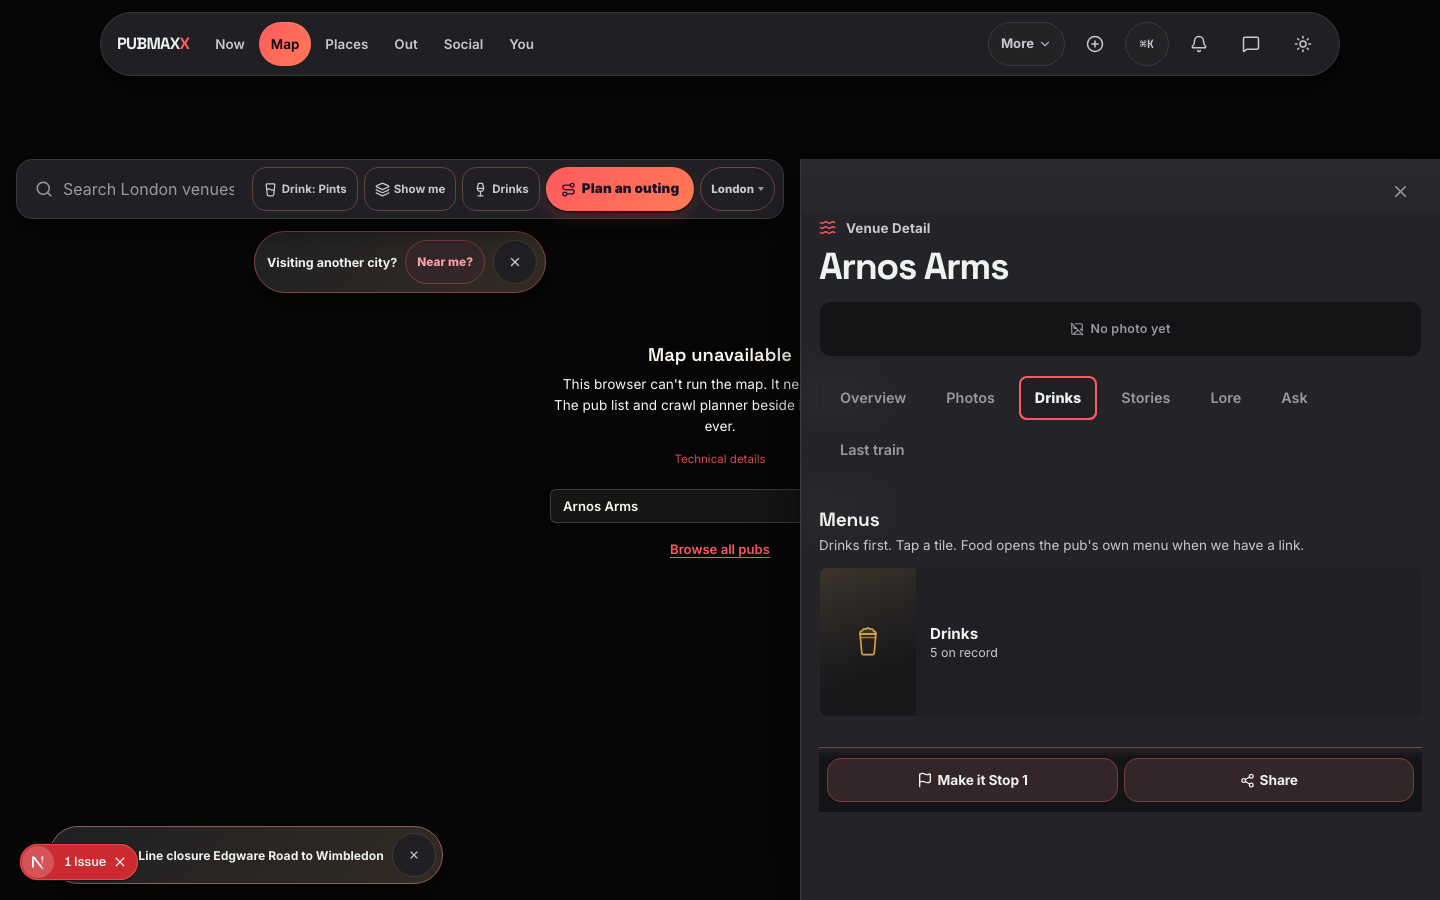
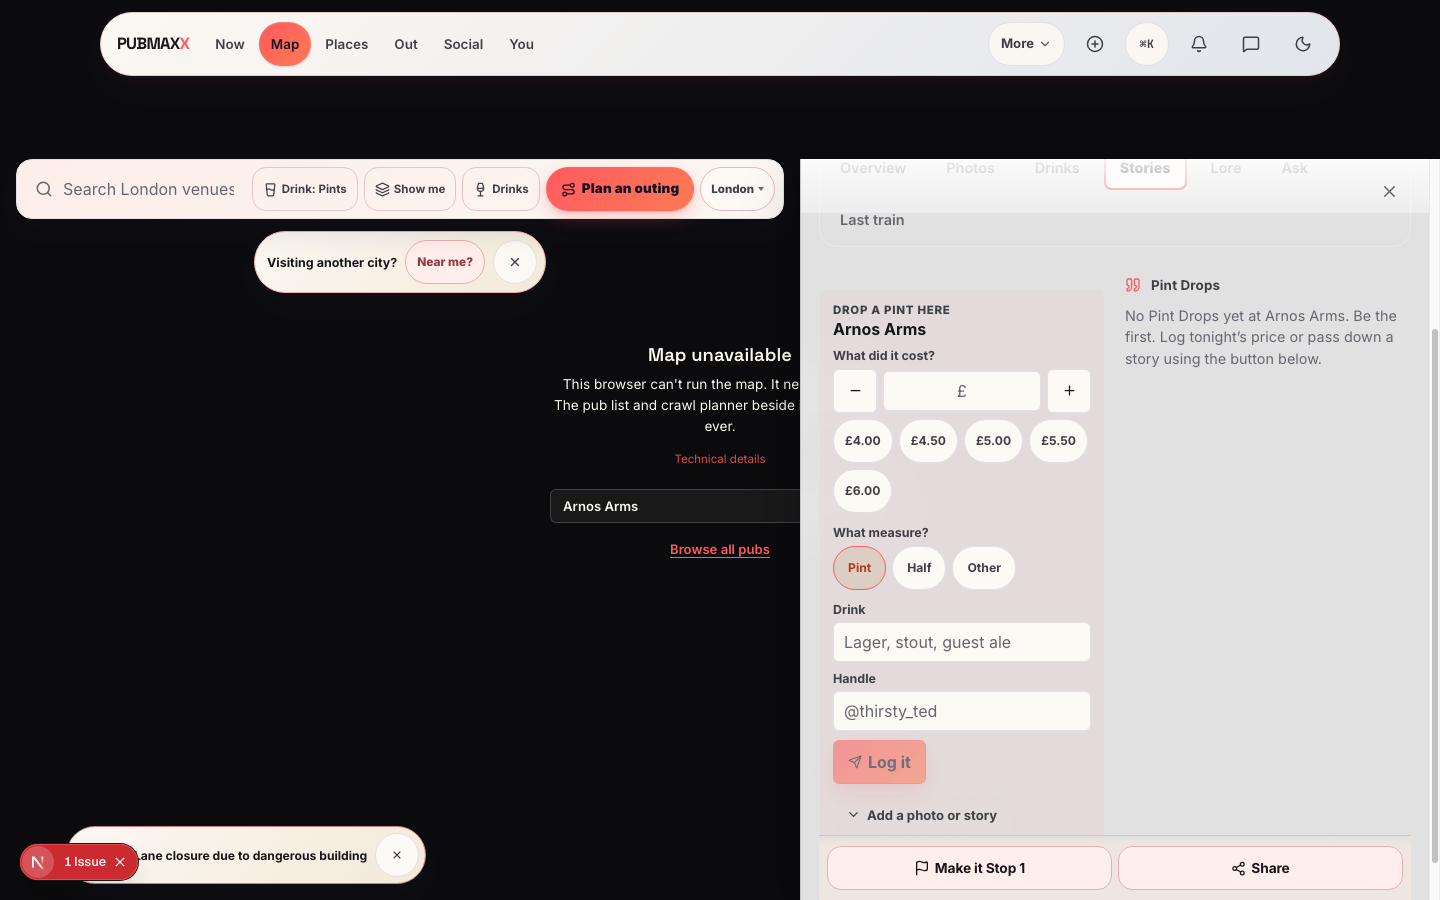
docs(price): the measure law, the retired confirm lane, and the composer proof
AGENTS.md gains the two laws the five fixes below it establish: a price is
about a MEASURE and a half is held out of the pint lane rather than scaled into
it, and a confirmation vocabulary is owned, so the anonymous IP-keyed one is
retired while the caller-aware, lane-aware and duplicate-safe readings beside
it are named.

docs/proof/half-pint-integrity/ holds the composer before and after at 390x844,
768x1024 and 1440x900, and its README records how each shot was verified in the
pass that captured it. Two traps are written down there for the next reader,
because both produced a screenshot that looked like a missing feature and was
not: the tab labelled "Drinks" opens the drink MENU rather than the Pint Drop
panel, and a composer opened while its tabpanel is still `hidden` sits in the
DOM with a zero box and paints nothing.

diff --git a/AGENTS.md b/AGENTS.md
@@ -54,6 +54,8 @@ PubMaxing is a single Next.js 16 (App Router, React 19, TypeScript) web app, a p
 - **THE TRUST STORY READS ONE WAY, AND `lib/pintTrust.ts` IS THE ONE READING.** Captain's cut for v0 (5 Sept 2026, Fable51Fix section 1): first public drop is logged-once, a second independent drinker is the trusted MARK and may lead the cheapest-pint story, and "No price yet" over a visible public drop may never return. `pintTrustFor` composes the four drop lanes in `lib/venues.ts` in order (`confirmedPriceDrop`, `corroboratedPriceDrop`, `provisionalPriceDrop`, `agedPriceDrop`) into FIVE states (`confirmed`, `corroborated`, `logged-once`, `aged-out`, `none`), every one a READING at `now`: an expired confirmation reads `aged-out` and nothing is written. `pintTrustSignalFields` is the ONE projection into `VenueSignal` (`components/map/usePintDrops.ts` calls no drop lane of its own), `PINT_TRUST_PIN_PAINT` says what each state paints (authority: band and figure; mark: the provisional badge; none: nothing) and `PINT_TRUST_LINE` what it prints. THREE rules. (1) COLOUR ON A PIN IS THE PRICE BAND ALONE (captain's law 5 Sept 2026: red dear, yellow average, green cheap, relative to the area; the thresholds and the shared colour module belong to the price-colour-law worker), so a trust state is a badge SHAPE: `components/map/canvas/geojson.ts` stamps `standing: "confirmed"` off the signal through `pintTrustPinStanding`, and `pubs-confirmed-badge` in `components/map/canvas/buildScene.ts` draws the provisional dot's berth HOLLOW over it. A filled dot is one report; a ring is a confirmed pair. Nothing derives a colour from a trust state. (2) An AGED drop is still a visible public drop, so it is the `aged` lane in `lib/venuePriceLane.ts`, below the baseline and above the model, printing `AGED_PRICE_LINE`; only a `null` lane may word an absence, as before. (3) THE CHIP IS THE SEAM: every drop-lane row on the Overview and the phone peek carries `data-pint-trust` and `data-venue-id` (`trustChipStateFor`), and the second-drinker confirm action mounts against that element, so the read PR and the write PR merge in either order. Pins: `__tests__/pintTrust.test.ts`, `__tests__/lonePintDropLane.test.ts`, `e2e/trust-read.spec.ts`; proof `docs/proof/trust-read/`.
 - **THE OVERVIEW HAS ONE PRICE DOOR PER TRUST STATE, AND THE COMPOSER IS FOLDED BEHIND IT.** Captain's rule (core-loop battle test L03, 5 Sept 2026): one button system, one clear primary per screen. A pub Overview offered four to eight price actions on one sheet, because every block that touched a price grew its own invitation. `overviewPriceDoor` in `lib/pintTrust.ts` is the whole policy, a closed table over the five trust states: `logged-once` and `aged-out` get the confirm door from #1492 (`Still £4.50?`, seeding the Pint Drop composer), every other state and every non-drop lane gets the one log door (`LOG_PRICE_DOOR_LABEL`), and an anchor lane gets none. FOUR rules. (1) The door is decided ONCE in `VenuePriceSummary` (`components/map/inspector/VenueOverviewTab.tsx`) and appended to whichever lane block renders; no lane, nudge or block may carry a door of its own, and `FirstDropNudge` takes the door as children. (2) The community price composer (`VenuePriceEntryPanel`, `open` prop) mounts its form only when `overviewComposerOpen` says so: the sheet answered the door with a focus request, with the sign-in gate, or a ranked mission arrived for this pub (the mission IS the ask). The door folds away while the form is open, so the two never stand on one screen; the panel's effects still run folded, so the venue read and `price_submit_viewed` are unchanged. (3) The prices-by-drink invite folds wherever the price area owns the door (`drinkInviteOwnedByPriceArea`); under a drink lens the area is hidden and the block keeps the lane's door. (4) The sticky bar carries NO price action and NO painted primary: `Add price` is gone, and `Make it Stop 1` is a ghost because the phone peek's `Plan stop` is the one painted plan action. The door is the `priceDoor` class (`app/globals.css`), the same flat action accent every launch primary wears, never a price band. `UnverifiedPubSheet` keeps `VenueSheetPriceEntry` open by default and is untouched. Pins: `__tests__/overviewPriceDoor.test.ts` (policy per state, one rendered door, the fold, a source sweep for the retired doors), `e2e/overview-price-door.spec.ts` (390, signed in, five states); proof `docs/proof/overview-price-door/`.
 - **A LOGGED-ONCE PINT OFFERS A SECOND DRINKER ONE DOOR, AND THE WRITE PATH SAYS WHAT THEIR REPORT DID.** Captain's cut for v0 (Fable51Fix section 1, 2026-09-05). The two drop-lane rows that lack a second drinker on the venue Overview (`logged-once` and `aged-out`, read off `trustChipStateFor` in `lib/pintTrust.ts` and never off a lane branch: `SECOND_DRINKER_STATES` is the closed set) carry ONE action, `Still £4.50?`, worded over the lane's own observed figure, which opens the pub's Pint Drop composer with the figure already in the price field through the SAME seed the log intent's `price=` rides (`priceSeed` into `useVenueDraft`, so a saved draft still wins and nothing submits). `lib/pintDropSecondDrinker.ts` is the browser-safe leaf owning the door's words, the seed and the CLOSED outcome vocabulary (`confirmed`, `already_confirmed`, `same_reporter`, `awaiting_second_drinker`, `unavailable`). FOUR rules. (1) The open goes through PubMap's `openComposerForLog` (`onOpenComposerForLog` on `VenueInspector`), because that is the ONE caller of the price-step reveal. (2) Soft-gated by the composer itself: signed out, the fields stay open and the sign-in link where Log it would be carries `pintDropDoorHref(venueId, price)` back, so the account's first kept action lands on this composer with the figure. (3) Independence is decided on the server and nowhere else: `readSecondReporter` (`lib/pintDropConfirmation.ts`) is `findSecondReporterConfirmation` plus the honest name for each null, `runSecondReporterPass` (`lib/pintDropConfirm.server.ts`) mints once and answers the confirmation ON FILE to a retry, and a same-account repeat answers `same_reporter` with nothing written, because an unattributed row is no reporter and one key twice is one report. Both `POST /api/pint-drops` and `POST /api/price-submit` carry `confirmationOutcome`; the composer's receipt prints its line and re-reads the lane on a mint, since the earlier row this browser holds predates it. (4) The e2e answers the write with a boundary double in the route tests' shape, because the keyless e2e server verifies no bearer and mints nothing; independence is pinned at the route. Pins: `__tests__/pintDropSecondDrinker.test.ts`, `__tests__/pintDrops.test.ts`, `__tests__/priceSubmitRoute.test.ts`, `__tests__/lonePintDropLane.test.ts`, `e2e/second-drinker-confirm.spec.ts`.
+- **A PRICE IS ABOUT A MEASURE, AND A HALF IS HELD OUT RATHER THAN SCALED IN.** Contribution battle test D04: a Pint Drop of `drink: "Half of lager", priceGbp: 2.6` was accepted into the pint lane, a second drinker confirmed it as "£2.60 a pint", and that figure fed pin colour, the cheapest-pint buckets and the Pint Index at a pub whose pint is £5.50. The drink text was the only place a half could be said, the composer's own placeholder invited the word, and no read path ever asked it. `lib/drinkMeasure.ts` is the ONE owner of the closed set (`pint` | `half` | `other` with a free label), the default, the words, and the word-bounded table of measure terms a drink text may name; it is a pure leaf so a bundle needing the word "Half" pulls no venue index behind it. FIVE rules. (1) NOTHING IS EVER SCALED: a half of lager is not half the price of a pint of it, so doubling a figure would publish a price nobody paid; a non-pint row keeps its own figure, stays dated on the pub's own drop list with its measure printed beside it, and is held OUT. (2) ONE PREDICATE GUARDS EVERY LANE: `measureIsPint` reads an absent measure as `pint`, so no row written before migration 0147 changes lane, and `isPintPricedDrop` in `lib/venues.ts` is asked first by all four drop lanes, which is what carries it into `authoritativePriceDrop`, `mergeVenueDrops`, `provisionalPintDropVenueIds`, `pintTrustFor`, `confirmedPriceInputFor` and `findSecondReporterConfirmation` - so a half can neither be confirmed nor be the peer that confirms a pint. (3) THE MEASURE IS ASKED BEFORE THE FREE TEXT, and a priced drop claiming `pint` whose own words say half is refused with `MEASURE_ASK_LINE`; a passed-down memory about 40p halves is a story, not a price lane. (4) The Index counts a pre-0147 confirmed half out by name (`measure_not_pint`), and the measure survives a saved draft and rides the paired one-tap drop explicitly. (5) The COMMUNITY PRICE lane is deliberately measure-free: its composer carries a closed category and no drink text, so its beer chip means a pint and `lib/oneTapPintDrop.server.ts` states `measure: "pint"` on the row rather than inheriting it. Migration `0147` + rollback adds the column with two CHECKs; its backfill FLAGS by drink text and writes the measure column alone, so a flagged row keeps its price, its date, its author and its confirmation id. Pins: `__tests__/drinkMeasure.test.ts`, `__tests__/pintDropMeasureMigrationEffective.test.ts` (real PostgreSQL 16); proof `docs/proof/half-pint-integrity/`.
+- **A CONFIRMATION VOCABULARY IS OWNED, AND THE ANONYMOUS ONE IS RETIRED.** Battle test L03: `POST /api/price-confirm` took a body with no bearer, counted it by hashed IP, and printed "Confirmed - 1 confirm." beside a price the trust chip called logged-once. Retired whole (the route, its store, the chip, the tally read, the confirm-derived confidence words, and its `community` publisher in `lib/priceFactClaims.ts` which used to upgrade a lone scraped baseline to `corroborated`), because an IP is a household, a pub's own wifi and a mobile carrier's NAT and cannot say how many PEOPLE stood behind a price. `price_confirms` (migration 0025) is LEFT IN PLACE and simply unread: retiring a reading is not deleting what people did. The interaction survives where it can be trusted, as `Still £4.50?` and `It's changed`, both landing a dated Pint Drop from an account with an authority key. TWO more readings were made caller-aware or lane-aware in the same sweep: the mission receipt words a BEER write from `pintTrustFor` alone and claims nothing when that read fails (D07), and `same_reporter` is a sentence about the CALLER, so `readSecondReporter` takes the caller's key and a different drinker is never told they repeated themselves (D08). A duplicate tap is one price: the composer latches on a ref claimed before the first await and `writeOneTapPintDrop` is idempotent over `ONE_TAP_DUPLICATE_WINDOW_MS`, which is deliberately NOT the daily cap the pairing lane opts out of (D10). Pins: `__tests__/priceConfirmRetired.test.ts`, `__tests__/priceEvidenceMissions.test.ts`, `__tests__/pintDropSecondDrinker.test.ts`, `__tests__/oneTapDuplicateTap.test.ts`.
 - **ONE DRINKER'S REPORT IS A PRICE, and it shows in its own lane rather than moving the map.** Captain decision 2026-09-04 (issue #1426), after production showed the venue Overview saying "No price yet" over a pub whose Drinks tab held a public £4.50. THE CORROBORATION GATE IS UNCHANGED: `COMMUNITY_PRICE_CORROBORATION_THRESHOLD` stands, and `corroboratedPriceDrop` still needs two in-window drops carrying two distinct authority keys. What it is no longer is the ONLY door onto pin colour, cheapest buckets, `mergeVenueDrops` and the Pint Index, because a server-minted confirmation is the same agreement written down where every key was visible: `authoritativePriceDrop` is that door and asks both, confirmation first, and the entry above owns the order and why. Beside them sits `provisionalPriceDrop` (`lib/venues.ts`), the freshest in-window organic priced drop, answering null the moment an authoritative figure exists so one pub can never offer two figures. It is deliberately NOT keyed on `authorityKey`, because that key proves INDEPENDENCE and a lone report claims none; the row this was found over has a null key, from the unlinked-handle write door. FOUR rules. (1) `lib/venuePriceLane.ts` is the ONE precedence and the ONE definition of "no price yet": `anchor`, `contributor`, `sourced`, `listed`, `provisional`, `baseline`, `estimate`, and a `null` answer is the only thing any surface may word as an absence. The provisional lane sits below the listed bundle row, which carries a page a reader can open, and above the baseline, whose stamp is hand-maintained. (2) The figure is rendered DIRECTLY with its date and `PROVISIONAL_PRICE_LINE`, never through `TrustPill`: `listed` in `lib/priceTier.ts` means a price the pub or its chain PUBLISHED, and a drinker's log is not that. (3) The report reaches the two provisional fields on `VenueSignal` (`components/map/canvas/types.ts`) and nothing else; `latestContributorPrice` stays corroborated-only, so no band, bucket or pin figure can read it, and the pin's existing provisional BADGE (`provisionalPintDropVenueIds`, now derived from `provisionalPriceDrop`) is still the whole of what a pin says about a pending report. `/api/venue/[id]` merges no drops at all and is untouched. (4) A SURFACE THAT WORDS AN ABSENCE ASKS THE LANE, and the first cut shipped two that did not (#1426 follow-up). The prices-by-drink block said "No beer price logged here yet" directly above the figure, because a Pint Drop is not a `community_prices` row: `venuePriceLaneIsDrinkerLog` is what silences that line, so a sourced, listed, baseline or modelled figure still earns it and only a drinker's own log takes it away, and `VenueOverviewTab` takes the lane ONCE and hands it to both blocks so one pub cannot be read two ways. The phone peek chip said "No price yet. Be the first" over the same pub, because it tested `cheapestPrice` itself: `peekPriceChip` (`lib/pubMap.ts`) is now the ONE thing that chip prints, `venuePriceLaneObservedGbp` says which field of a variant is its figure, and the estimate lane answers null there so a modelled price still reaches a screen only through `priceStandingFigure`. Pins: `__tests__/lonePintDropLane.test.ts`, `__tests__/venuePriceLane.test.ts`, `__tests__/venues.test.ts`, `__tests__/unverifiedPubSheet.test.ts`.
 - **The daily price cap has TWO enforcers, and it is a ROUTE's rule rather than the table's.** Pentest finding F-1: `hasPricedDropToday` followed by `create` is a check-then-insert with nothing underneath it, so a concurrent burst walked straight through the stated "one price per pub each day" rule (eight simultaneous priced POSTs, six rows, one authority key, so nothing corroborated and nothing moved). The pre-check STAYS and stays deliberately fail-open, because it gives the ordinary refusal without spending a failed insert; the hard guard behind it is `pint_drops_priced_day_unique_idx` (migration `0141` + rollback). THREE rules. (1) THE BUCKET IS A COLUMN, never an expression: `timezone(text, timestamptz)` is only STABLE so a London day cannot anchor an index, and a UTC day is the WRONG day in both directions under BST, so the writer stamps `price_day` with the same `londonDayKey()` the pre-check compares against and the two enforcers cannot read one day differently. The migration's backfill claims the EARLIEST row of each existing bucket, because the rows the finding is about are already in the table and a naive backfill would fail the index build. (2) THE CAP GOVERNS THE LANE THAT STATES IT: `create` takes `underDailyPriceCap` (`PintDropCreateOptions`) and only `POST /api/pint-drops` opts in, because `POST /api/price-submit` pairs a Pint Drop with every community price a drinker sends and takes several from one account at one pub in one day on purpose, with its own rate limiter as the brake. A guard over every row would refuse the second of those. Whether the pairing lane should share the cap is an open product question, not a bug. (3) ONE SENTENCE: `DAILY_PRICE_CAP_REFUSAL` is spent by the pre-check and by the `PintDropDailyCapError` the store throws, so a drinker cannot tell which enforcer turned them away, and that refusal logs as `pint_drops.daily_cap_conflict` rather than as an outage. Pins: `__tests__/pintDropDailyCapAtomicEffective.test.ts` (real PostgreSQL 16, eight writers released at one instant, before and after the migration), `__tests__/pintDropDailyDedupe.test.ts`, `__tests__/pintDrops.test.ts`.
 - **The Pint Index PUBLISHES what drinkers confirmed, and the producer is a script.** `lib/pintIndexFromConfirmations.ts` builds the live snapshot from confirmed Pint Drops and `npm run build:pint-index-snapshot` writes `public/data/pint_index_snapshot.json`, which was hand-written and empty because nothing produced it. `lib/pintIndex.ts` admission is UNCHANGED and is the gate: the script validates and dies rather than write a snapshot the site would refuse. FOUR rules. (1) Only a LIVE confirmation may be cited, through the same `confirmationIsLive` the venue sheet reads, so the pubs the Index dates and the pubs a standing calls Confirmed are one set. (2) An observation is dated to the NIGHT THE PRICE WAS SEEN, never the day it was confirmed. (3) Every drop is counted somewhere: `PINT_INDEX_EXCLUSION_REASONS` gives an unresolvable pub, a point outside every borough and an unpriced row their own reason and count. (4) The script REFUSES rather than publish an empty Index over a real one: no durable store, a failed read, or a confirmed-drop read at `MAX_INDEX_CONFIRMED_DROPS` each stop it, and a read that answered with nothing is honestly `empty`. Missions point at the pubs the Index cannot date: the `undated` field on `VenueMissionRows` is a TIE-BREAK inside a reason and never a promotion over a stronger one, it reaches no DTO, and the route reads it in ONE `listConfirmedVenueIds` call for the whole page. Pins: `__tests__/pintIndexFromConfirmations.test.ts`, `__tests__/priceEvidenceMissions.test.ts`.

diff --git a/docs/proof/half-pint-integrity/README.md b/docs/proof/half-pint-integrity/README.md
@@ -1,0 +1,56 @@
+# Half-pint integrity: the measure field, before and after
+
+Contribution battle test D04. Six shots of the Pint Drop composer on the venue
+sheet at Arnos Arms (`venue-xjf3n0`), the pub the report found the defect over,
+at the three widths the captain's rule names.
+
+| Width | Before | After |
+|---|---|---|
+| 390x844 | `before-composer-390.png` | `after-composer-390.png` |
+| 768x1024 | `before-composer-768.png` | `after-composer-768.png` |
+| 1440x900 | `before-composer-1440.png` | `after-composer-1440.png` |
+
+## What changed on screen
+
+BEFORE, the composer asked two questions: what it cost, then a free `Drink`
+field whose own placeholder invited the answer that broke the lane, "Pint,
+half, soda, guest ale". Nothing downstream read that text, so "Half of lager"
+at £2.60 entered the pint lane, was confirmed by a second drinker as "£2.60 a
+pint", and fed pin colour, the cheapest-pint buckets and the Pint Index at a
+pub whose pint is £5.50.
+
+AFTER, a closed `What measure?` row sits between the price and the drink, on
+Pint by default. The drink placeholder is `Lager, stout, guest ale`, so it no
+longer invites a measure. A priced drop that claims the pint measure while its
+own words say half is refused with one line that hands the drinker the control:
+"Pick the measure first, so a half never reads as a pint."
+
+The measure chips share the price quick-adds' shape, because two chip rows in
+one composer are one control system. The selected chip's label takes
+`--brass-ink` rather than `--brass`: the accent as a WORD reads 2.9:1 on its own
+tint in light, and the ink token points back at `--brass` in dark so one coral
+survives the theme.
+
+## How these were taken
+
+Two `next dev` servers on isolated dist directories, one holding `origin/main`'s
+`ComposerPriceStep.tsx` and `spillComposer.css` (before) and one holding this
+branch's (after), driven over CDP against Chrome for Testing 151.
+
+Each shot is verified in the same pass that captures it: the run asserts the
+Pint Drop panel has unhidden, that the price step has a non-zero box on screen,
+and that the measure chips read `[Pint,Half,Other]` for an after shot and `[]`
+for a before one. Two traps are worth recording for the next reader.
+
+1. THE TAB LABELLED "Drinks" IS NOT THE PINT DROP TAB. It opens
+   `venuePanel-menu`, the drink menu. The composer lives in
+   `venuePanel-pints`, whose tab is labelled Stories, so the run targets the
+   tab by `aria-controls` rather than by its name.
+2. A HIDDEN TABPANEL GIVES THE COMPOSER A ZERO BOX. Opening the composer in the
+   same tick as the tab selection leaves `[data-testid=spill-price-step]` in the
+   DOM with `height: 0`, and a screenshot then shows a composer that is
+   genuinely not painted. The run waits for `#venuePanel-pints` to unhide and
+   for the step to measure above zero before it captures.
+
+The map canvas reads "Map unavailable" in these shots: the headless browser has
+no WebGL. Every surface under test lives in the sheet and does not need it.
